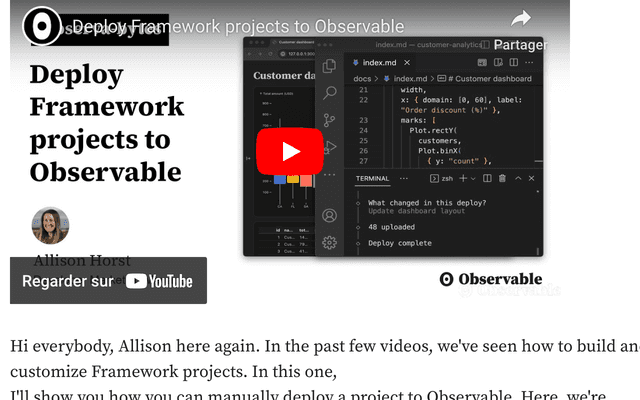
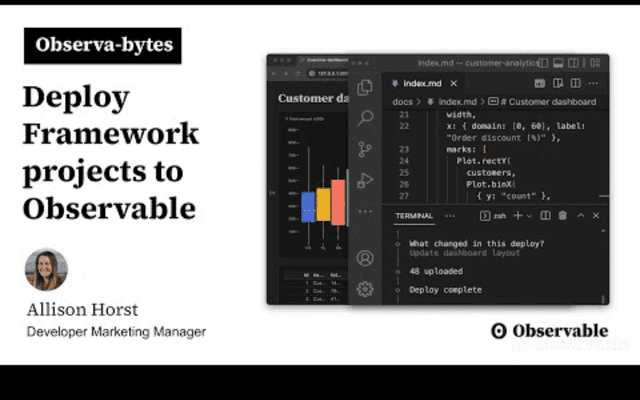
videos, blogs, and their thumbnails

diff --git a/src/thumbnail/index.md.ts b/src/thumbnail/index.md.ts
@@ -3,7 +3,7 @@ import {sections} from "../index.json" assert {type: "json"};
 
 const intro = `# Pangea Proxima
 
-## Examples, techniques, algorithms: a collection edited by Fil
+## Examples, techniques, algorithms: a collection
 
 _What?_ These pages demonstrate some modern data visualization techniques that you
 can use on the Web. They are built with [Observable Framework](https://observablehq.com/framework/),
@@ -15,7 +15,7 @@ _How?_ To access the code of any page, just click on the view source icon <span>
 you’d like to contribute examples, please open a pull-request on the project’s GitHub [repo](https://github.com/fil/pangea). If you want something that you
 don’t find here, please open a [feature request](https://github.com/Fil/pangea/issues/new).
 
-_Who?_ I’m Fil Rivière, I work at [Observable](https://observablehq.com/) with the aim of building a strong foundation
+_Who?_ This collection is maintained by Fil Rivière. I work at [Observable](https://observablehq.com/) with the aim of building a strong foundation
 for data visualization on the Web. This is a place where I collect, experiment, showcase, and share some
 of the goodies. Most of these pages were initially authored by other people: Mike Bostock, Volodymyr Agafonkin,
 Tom McWright, Jason Davies, Allison Horst, Franck Lebeau, Ian Johnson, Shirley Wu, Nadieh Bremer, Jeffrey Heer,

diff --git a/src/video/[youtubeid].md.ts b/src/video/[youtubeid].md.ts
@@ -1,0 +1,48 @@
+import {parseArgs} from "node:util";
+import {utcFormat} from "d3";
+import Parser from "rss-parser";
+
+const {
+  values: {youtubeid}
+} = parseArgs({
+  options: {youtubeid: {type: "string"}}
+});
+
+const link = `https://www.youtube.com/watch?v=${youtubeid}`;
+
+const dateFormat = utcFormat("%Y-%m-%d");
+const parser = new Parser({customFields: {item: ["title", "media:group", "isoDate"]}});
+
+const url = "https://www.youtube.com/feeds/videos.xml?channel_id=UCCD2tAKN32ya7V639gkbWhg";
+const entry = await parser.parseURL(url).then((feed) => feed.items.find((entry) => entry.link === link));
+
+if (!entry) throw new Error(`Unavailable ${youtubeid}`);
+
+const title = entry.title;
+const description = entry["media:group"]?.["media:description"]?.[0];
+const thumbnail = entry["media:group"]?.["media:thumbnail"]?.[0]?.["$"]?.["url"];
+
+process.stdout.write(`---
+index: true
+title: ${JSON.stringify(`Video: ${title}`)}
+ignore_head: '<meta http-equiv="refresh" content="0; url=${link}">'
+---
+
+# ${title}
+## Published ${dateFormat(new Date(entry.isoDate))}
+
+<img class=thumbnail src=${JSON.stringify(thumbnail)} style="width: 640px; max-width: 100%;">
+
+<small>
+
+${description}
+
+</small>
+
+`);
+
+/*
+~~~
+${JSON.stringify(entry, null, 2)}
+~~~
+*/

diff --git a/src/blog/[post].md.ts b/src/blog/[post].md.ts
@@ -12,14 +12,21 @@ const contents = await fetch(url, {headers: {cookie: "ab.storage.sessionId=1;"}}
 
 const title = contents.match(/<meta property="og:title" content="(.*?)"\s*\/?>/m)?.[1];
 const description = contents.match(/<meta property="og:description" content="([^>]*)"\s*\/?>/m)?.[1] ?? "";
+const thumbnail = contents.match(/<meta property="og:image" content="([^>]*)"\s*\/?>/m)?.[1] ?? "";
+const link = `https://observablehq.com/blog/${post}`;
 
 process.stdout.write(`---
 index: true
+title: ${JSON.stringify(`Blog: ${title}`)}
+ignore_head: '<meta http-equiv="refresh" content="0; url=${link}">'
 ---
 
-# Blog: ${title}
+# ${title}
+## From the Observable blog
 
-<meta http-equiv="refresh" content="0; url=https://observablehq.com/blog/${post}">
+${link}
+
+<img class=thumbnail src=${JSON.stringify(thumbnail)} style="width: 640px; max-width: 100%;">
 
 ${description}
 

diff --git a/observablehq.config.ts b/observablehq.config.ts
@@ -36,12 +36,18 @@ a.setAttribute("href", a.getAttribute("href") + (
 const dynamicPaths: string[] = [];
 
 const parser = new Parser({customFields: {item: ["link"]}});
-const url = "https://observablehq.com/blog/feed.rss";
 
-for (const item of (await parser.parseURL(url)).items) {
+for (const item of (await parser.parseURL("https://observablehq.com/blog/feed.rss")).items) {
   const a = item.link.match(/blog\/(.*)$/)?.[1];
   if (a) dynamicPaths.push(`/blog/${a}`);
   if (a === "observable-2-0") break; // ignore older posts
+}
+
+for (const item of (
+  await parser.parseURL("https://www.youtube.com/feeds/videos.xml?channel_id=UCCD2tAKN32ya7V639gkbWhg")
+).items) {
+  const a = item.link.match(/watch\?v=(.*)$/)?.[1];
+  if (a) dynamicPaths.push(`/video/${a}`);
 }
 
 export default {

diff --git a/generate-thumbnails.ts b/generate-thumbnails.ts
@@ -5,12 +5,12 @@ import {existsSync, mkdirSync} from "node:fs";
 import {dirname} from "node:path/posix";
 
 async function generate_thumbnails(page: Page, id: string, ref: string) {
-  const selector = ".observablehq--block figure, .observablehq--block svg, .observablehq--block canvas";
+  const selector = ".thumbnail, .observablehq--block figure, .observablehq--block svg, .observablehq--block canvas";
 
   await page.emulateMedia({colorScheme: "light"});
   try {
     await page.goto(`${HTTP_ROOT}${id}`);
-    await delay(30000);
+    await delay(500);
   } catch (e) {
     console.warn(e);
     return;
